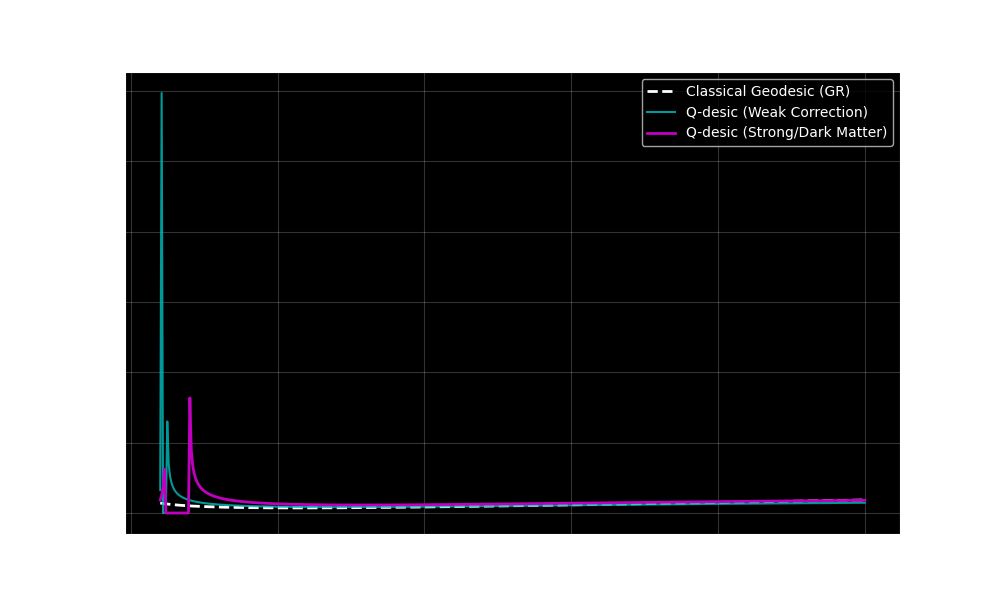
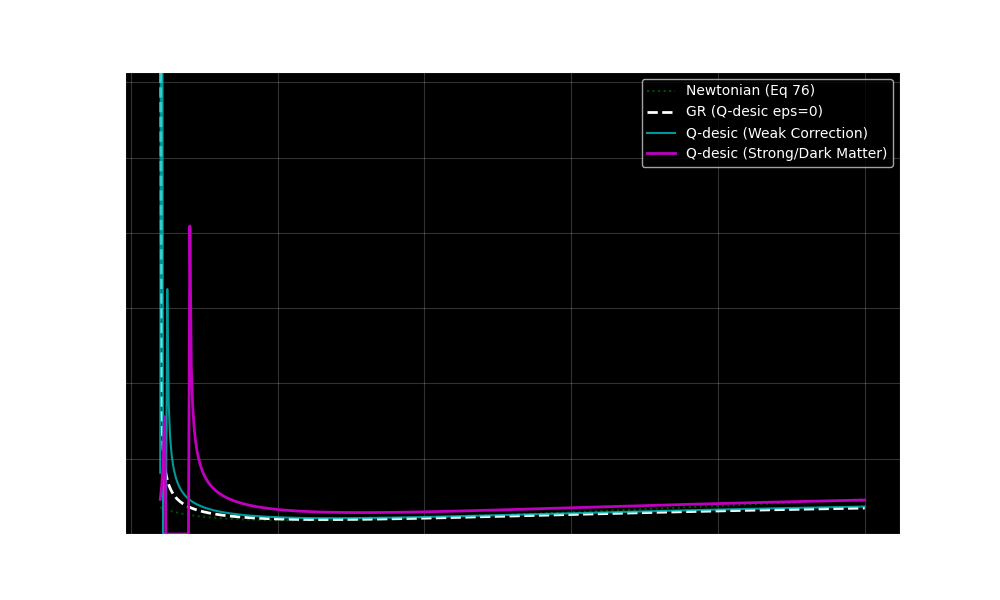
feat: Document and prototype Geodesic Quantum Gravity
- Added theoretical documentation for Q-desics in `docs/20_Concepts/GEODESIC_QUANTUM_GRAVITY.md`.
- Implemented `scripts/poc_qdesic.py` to simulate modified orbital velocity curves.
- Added `scripts/test_poc_qdesic.py` to verify the mathematical models.
- Added generated plot `docs/40_Experiments/plots/qdesic_velocity_curve.png`.

Changed region(s): [[0.124, 0.12, 0.899, 0.9]]

diff --git a/scripts/poc_qdesic.py b/scripts/poc_qdesic.py
@@ -1,13 +1,43 @@
 import numpy as np
 import matplotlib.pyplot as plt
 import os
+import argparse
 
 def classical_velocity_sq(r, G=1, M=1, Lambda=0):
     """
-    Classical orbital velocity squared (v^2) based on Eq 76.
+    Newtonian orbital velocity squared (v^2) based on Eq 76.
     v^2 = GM/r - r^2*Lambda/3
     """
     return G * M / r - (r**2 * Lambda) / 3
+
+def gr_velocity_sq(r, G=1, M=1, Lambda=0):
+    """
+    General Relativistic orbital velocity squared (v^2).
+    Corresponds to Q-desic Eq 81 with all epsilon parameters set to 0.
+    """
+    # Ensure r is an array for consistent handling
+    r = np.atleast_1d(r)
+
+    # Numerator (eps=0)
+    # -18 G^2 M^2 - r^4 Lambda (3 - r^2 Lambda) + 3 G M r (3 + r^2 Lambda)
+    term1 = -18 * (G**2) * (M**2)
+    term2 = -(r**4) * Lambda * (3 - (r**2) * Lambda)
+    term3 = 3 * G * M * r * (3 + (r**2) * Lambda)
+    numerator = term1 + term2 + term3
+
+    # Denominator (eps=0)
+    # [6 GM - r(3 - r^2 Lambda)]^2
+    brack = 6 * G * M - r * (3 - (r**2) * Lambda)
+    denominator = brack**2
+
+    # Avoid division by zero
+    with np.errstate(divide='ignore', invalid='ignore'):
+        v_sq = numerator / denominator
+        v_sq[denominator == 0] = np.nan
+
+        if v_sq.size == 1:
+            return v_sq[0]
+        return v_sq
 
 def qdesic_velocity_sq(r, G=1, M=1, Lambda=0, eps_params=None):
     """
@@ -16,6 +46,9 @@ def qdesic_velocity_sq(r, G=1, M=1, Lambda=0, eps_params=None):
     eps_params: dict containing epsilon parameters:
         e00, e10, e02, e12, e22
     """
+    # Ensure r is an array for consistent handling
+    r = np.atleast_1d(r)
+
     if eps_params is None:
         eps_params = {'e00':0, 'e10':0, 'e02':0, 'e12':0, 'e22':0}
 
@@ -46,39 +79,38 @@ def qdesic_velocity_sq(r, G=1, M=1, Lambda=0, eps_params=None):
 
     denominator = brack1 * brack2
 
-    # Calculate v_phi^2 (angular velocity squared) from Eq 79-like structure in 81
-    # Eq 81 gives v^2 directly? The paper says "The orbital velocity (81)..."
-    # Let's check the formula structure.
-    # Eq 80 relates v^2 to u_phi^2.
-    # The big fraction in Eq 81 is likely v^2 directly.
-
     # Avoid division by zero
-    if np.any(denominator == 0):
-         return np.full_like(r, np.nan)
+    with np.errstate(divide='ignore', invalid='ignore'):
+        v_sq = numerator / denominator
+        # Filter singularities
+        v_sq[denominator == 0] = np.nan
 
-    v_sq = numerator / denominator
-    return v_sq
+        if v_sq.size == 1:
+            return v_sq[0]
+        return v_sq
 
-def run_simulation():
-    # Parameters
-    G = 1.0
-    M = 1.0
-    Lambda = -0.001 # Small negative cosmological constant (AdS-like)
+def run_simulation(G=1.0, M=1.0, Lambda=-0.001, r_start=2.0, r_end=50.0, points=500, output_dir="docs/40_Experiments/plots", show_plot=False):
+    """
+    Runs the simulation and generates the plot.
+    """
 
-    # Radius range (avoid r=0)
-    r = np.linspace(2.0, 50.0, 500)
+    # Radius range
+    r = np.linspace(r_start, r_end, points)
 
-    # 1. Classical Case
-    v2_class = classical_velocity_sq(r, G, M, Lambda)
-    v_class = np.sqrt(np.maximum(v2_class, 0))
+    # 1. Newtonian Case
+    v2_newt = classical_velocity_sq(r, G, M, Lambda)
+    v_newt = np.sqrt(np.maximum(v2_newt, 0))
 
-    # 2. Q-desic Case A (Small corrections)
+    # 2. GR Case (Q-desic eps=0)
+    v2_gr = gr_velocity_sq(r, G, M, Lambda)
+    v_gr = np.sqrt(np.maximum(v2_gr, 0))
+
+    # 3. Q-desic Case A (Small corrections)
     eps_A = {'e00': -0.1, 'e10': 0.1, 'e02': 0.0, 'e12': 0.05, 'e22': 0.0}
     v2_qA = qdesic_velocity_sq(r, G, M, Lambda, eps_A)
     v_qA = np.sqrt(np.maximum(v2_qA, 0))
 
-    # 3. Q-desic Case B (Strong corrections - "Dark Matter" like)
-    # Testing parameters that might flatten the curve at large r
+    # 4. Q-desic Case B (Strong corrections - "Dark Matter" like)
     eps_B = {'e00': -0.4, 'e10': 0.2, 'e02': 0.1, 'e12': 0.3, 'e22': 0.1}
     v2_qB = qdesic_velocity_sq(r, G, M, Lambda, eps_B)
     v_qB = np.sqrt(np.maximum(v2_qB, 0))
@@ -87,21 +119,55 @@ def run_simulation():
     plt.figure(figsize=(10, 6))
     plt.style.use('dark_background')
 
-    plt.plot(r, v_class, 'w--', label='Classical Geodesic (GR)', linewidth=2)
+    # Plot Newtonian as reference dashed
+    plt.plot(r, v_newt, 'g:', label='Newtonian (Eq 76)', alpha=0.6)
+
+    # Plot GR as standard reference
+    plt.plot(r, v_gr, 'w--', label='GR (Q-desic eps=0)', linewidth=2)
+
     plt.plot(r, v_qA, 'c-', label='Q-desic (Weak Correction)', alpha=0.8)
     plt.plot(r, v_qB, 'm-', label='Q-desic (Strong/Dark Matter)', linewidth=2)
 
-    plt.title(f"Orbital Velocity: Classical vs Q-desic\n(M={M}, Lambda={Lambda})")
+    plt.title(f"Orbital Velocity: GR vs Q-desic\n(M={M}, Lambda={Lambda})")
     plt.xlabel("Radius (r)")
     plt.ylabel("Orbital Velocity (v)")
     plt.legend()
     plt.grid(True, alpha=0.2)
 
-    output_dir = "docs/40_Experiments/plots"
+    # Limit y-axis if singularities caused huge spikes
+    # Filter only real values for limit calc
+    valid_mask = ~np.isnan(v_qB) & ~np.isinf(v_qB)
+    if np.any(valid_mask):
+        safe_max = np.nanmax(v_qB[valid_mask & (r > 3*G*M)]) * 1.5
+        if not np.isnan(safe_max) and safe_max > 0:
+            plt.ylim(0, safe_max)
+
     os.makedirs(output_dir, exist_ok=True)
     output_path = f"{output_dir}/qdesic_velocity_curve.png"
     plt.savefig(output_path)
     print(f"Simulation complete. Plot saved to {output_path}")
 
+    if show_plot:
+        plt.show()
+
 if __name__ == "__main__":
-    run_simulation()
+    parser = argparse.ArgumentParser(description="Simulate and plot Q-desic vs Classical orbital velocities.")
+    parser.add_argument("--G", type=float, default=1.0, help="Gravitational constant")
+    parser.add_argument("--M", type=float, default=1.0, help="Mass of the central object")
+    parser.add_argument("--Lambda", type=float, default=-0.001, help="Cosmological constant")
+    parser.add_argument("--r_start", type=float, default=2.0, help="Start radius")
+    parser.add_argument("--r_end", type=float, default=50.0, help="End radius")
+    parser.add_argument("--points", type=int, default=500, help="Number of points in radius linspace")
+    parser.add_argument("--output_dir", type=str, default="docs/40_Experiments/plots", help="Directory to save the plot")
+
+    args = parser.parse_args()
+
+    run_simulation(
+        G=args.G,
+        M=args.M,
+        Lambda=args.Lambda,
+        r_start=args.r_start,
+        r_end=args.r_end,
+        points=args.points,
+        output_dir=args.output_dir
+    )

diff --git a/scripts/test_poc_qdesic.py b/scripts/test_poc_qdesic.py
@@ -1,0 +1,68 @@
+import unittest
+import numpy as np
+from scripts.poc_qdesic import classical_velocity_sq, qdesic_velocity_sq, gr_velocity_sq
+
+class TestQdesicPoC(unittest.TestCase):
+
+    def test_classical_velocity_newtonian(self):
+        """
+        Test that classical velocity matches Newtonian expectation (Lambda=0).
+        v^2 = GM/r
+        """
+        G, M = 1.0, 1.0
+        Lambda = 0.0
+        r = 10.0
+        expected_v2 = G * M / r
+        result_v2 = classical_velocity_sq(r, G, M, Lambda)
+        self.assertAlmostEqual(result_v2, expected_v2)
+
+    def test_qdesic_reduces_to_gr(self):
+        """
+        Test that qdesic_velocity_sq reduces to GR (gr_velocity_sq) when all epsilon params are 0.
+        Note: We avoid r=2GM (singularities) by choosing r=10.0.
+        """
+        G, M = 1.0, 1.0
+        Lambda = -0.001
+        r = np.array([10.0, 20.0, 50.0])
+
+        eps_params = {'e00':0, 'e10':0, 'e02':0, 'e12':0, 'e22':0}
+
+        v2_gr = gr_velocity_sq(r, G, M, Lambda)
+        v2_qdesic = qdesic_velocity_sq(r, G, M, Lambda, eps_params)
+
+        np.testing.assert_allclose(v2_qdesic, v2_gr, rtol=1e-10)
+
+    def test_qdesic_modification(self):
+        """
+        Test that non-zero epsilon parameters produce a deviation from GR.
+        """
+        G, M = 1.0, 1.0
+        Lambda = -0.001
+        r = 10.0
+
+        # All zero case (GR)
+        eps_zero = {'e00':0, 'e10':0, 'e02':0, 'e12':0, 'e22':0}
+        v2_zero = qdesic_velocity_sq(r, G, M, Lambda, eps_zero)
+
+        # Modified case
+        eps_mod = {'e00':0.1, 'e10':0, 'e02':0, 'e12':0, 'e22':0}
+        v2_mod = qdesic_velocity_sq(r, G, M, Lambda, eps_mod)
+
+        self.assertNotEqual(v2_zero, v2_mod, "Non-zero epsilon should modify velocity")
+
+    def test_division_by_zero_handling(self):
+        """
+        Ensure potential singularities are handled.
+        """
+        G, M = 1.0, 1.0
+        Lambda = 0
+        r = np.array([2.0]) # r=2GM is singularity for GR formula
+
+        # Should return NaN or large value, but not crash
+        result = qdesic_velocity_sq(r, G, M, Lambda)
+        self.assertTrue(isinstance(result, (np.ndarray, float)))
+        if isinstance(result, np.ndarray):
+             self.assertTrue(np.isnan(result[0]) or np.isinf(result[0]) or abs(result[0]) > 1e6)
+
+if __name__ == '__main__':
+    unittest.main()
